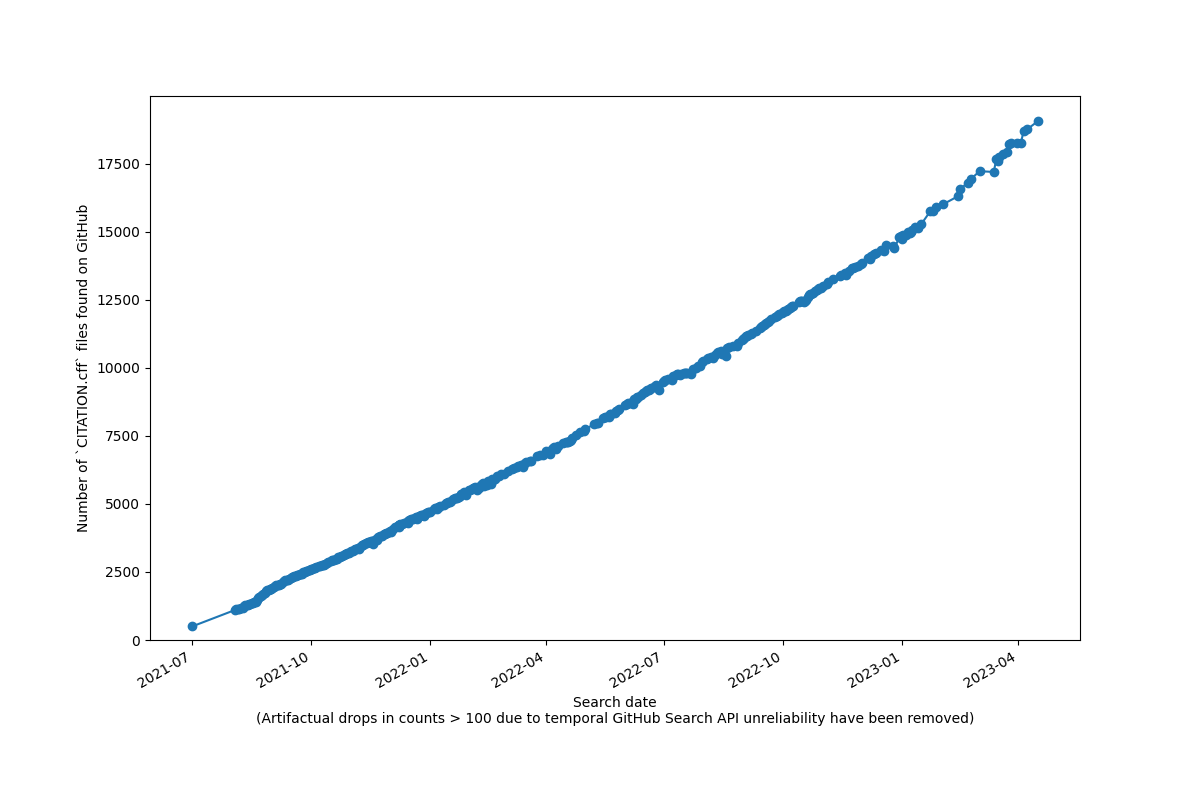
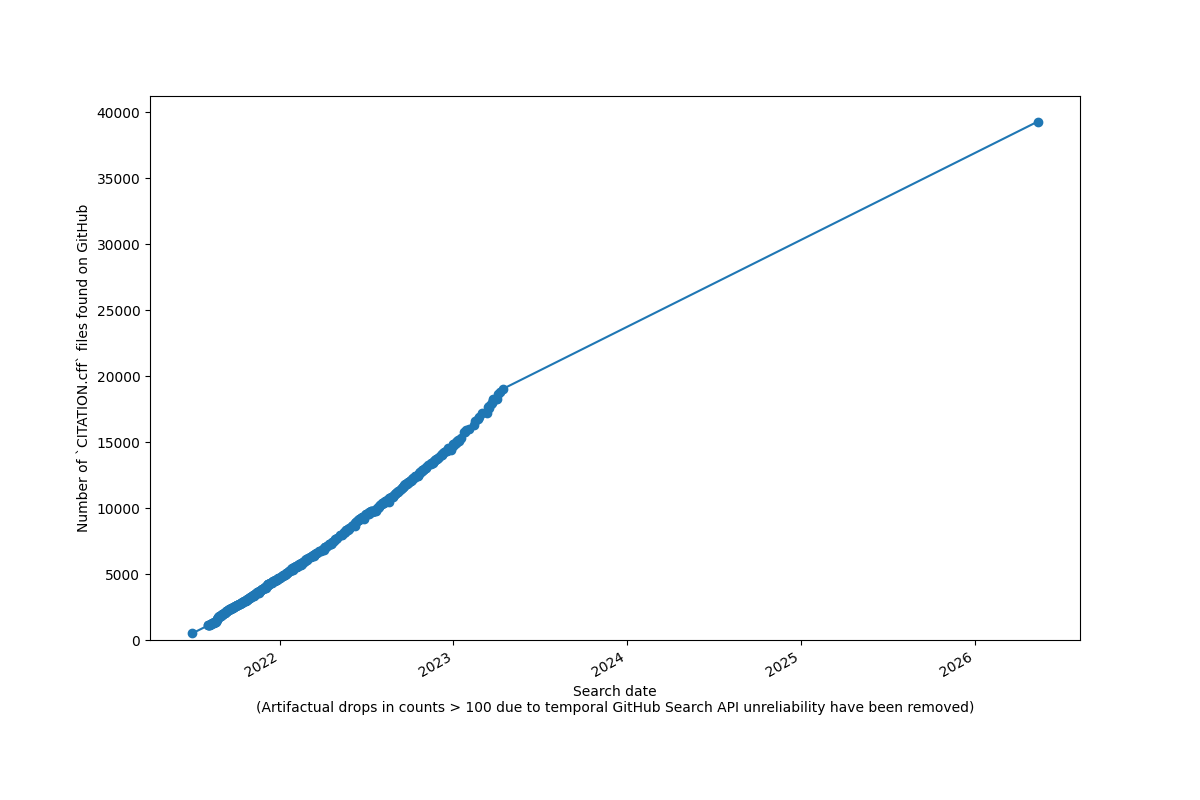
Update data

diff --git a/README.md b/README.md
@@ -7,7 +7,7 @@ SPDX-License-Identifier: CC-BY-4.0
 
 Tracks `CITATION.cff` files across public repositories on GitHub.
 
-## Current count: 4420
+## Current count: 39296
 
 ![A graph showing a timeline of file counts for CITATION.cff files across GitHub retrieved via GitHub search API.](cff_counts_clean.png)
 